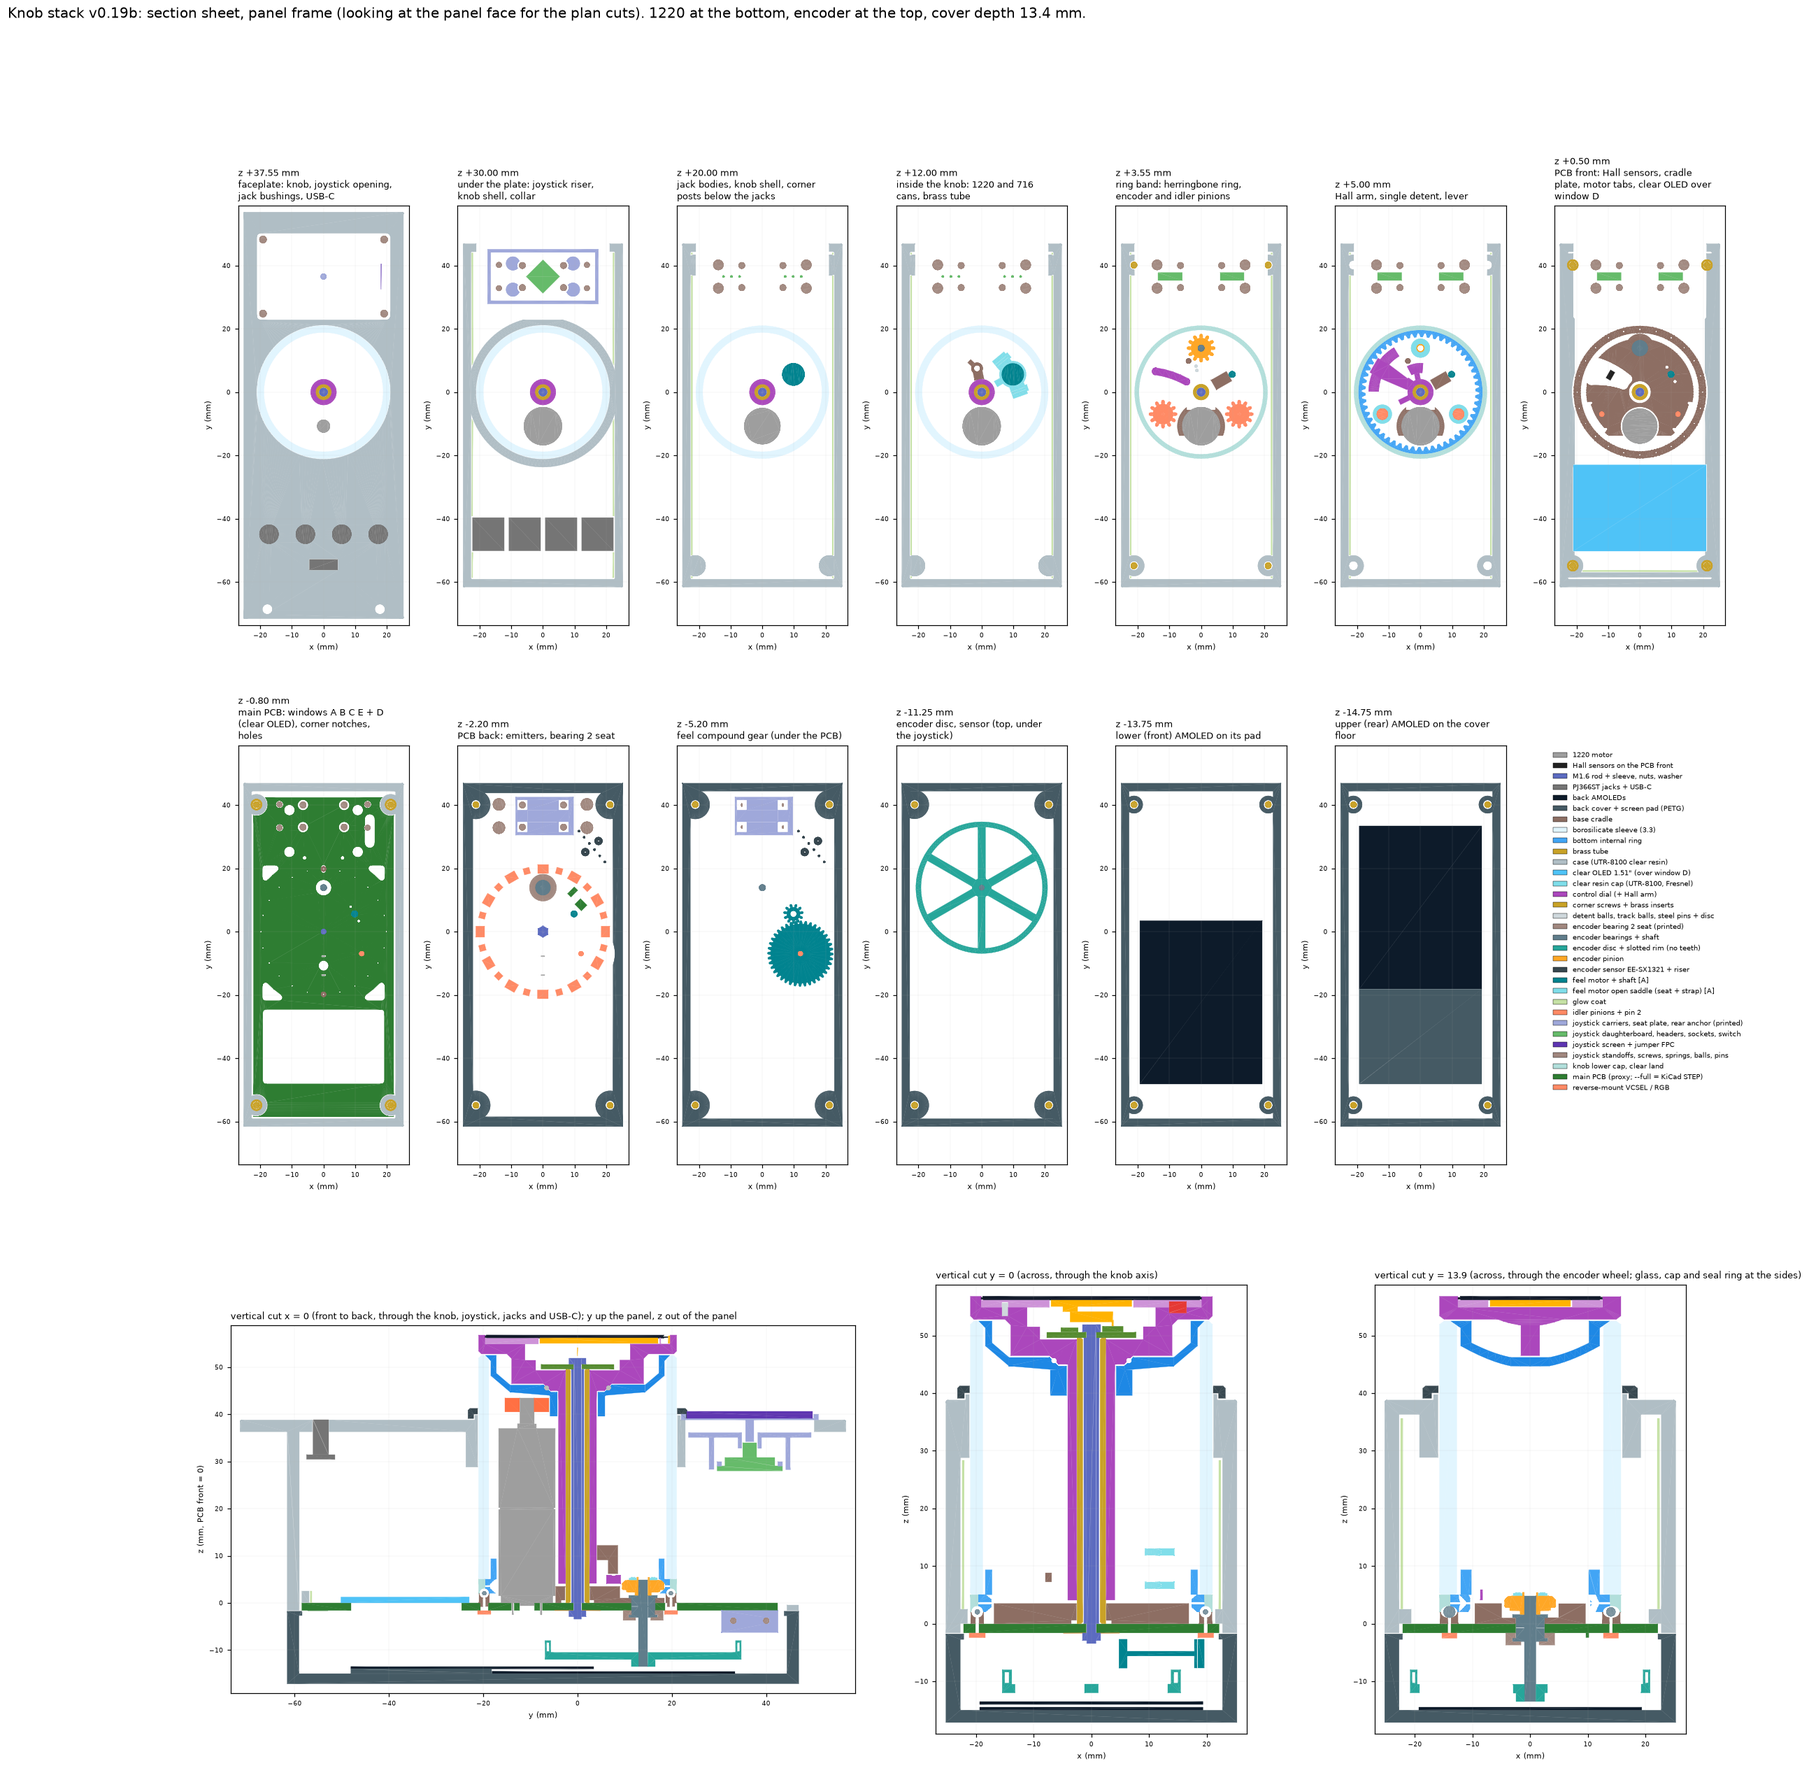
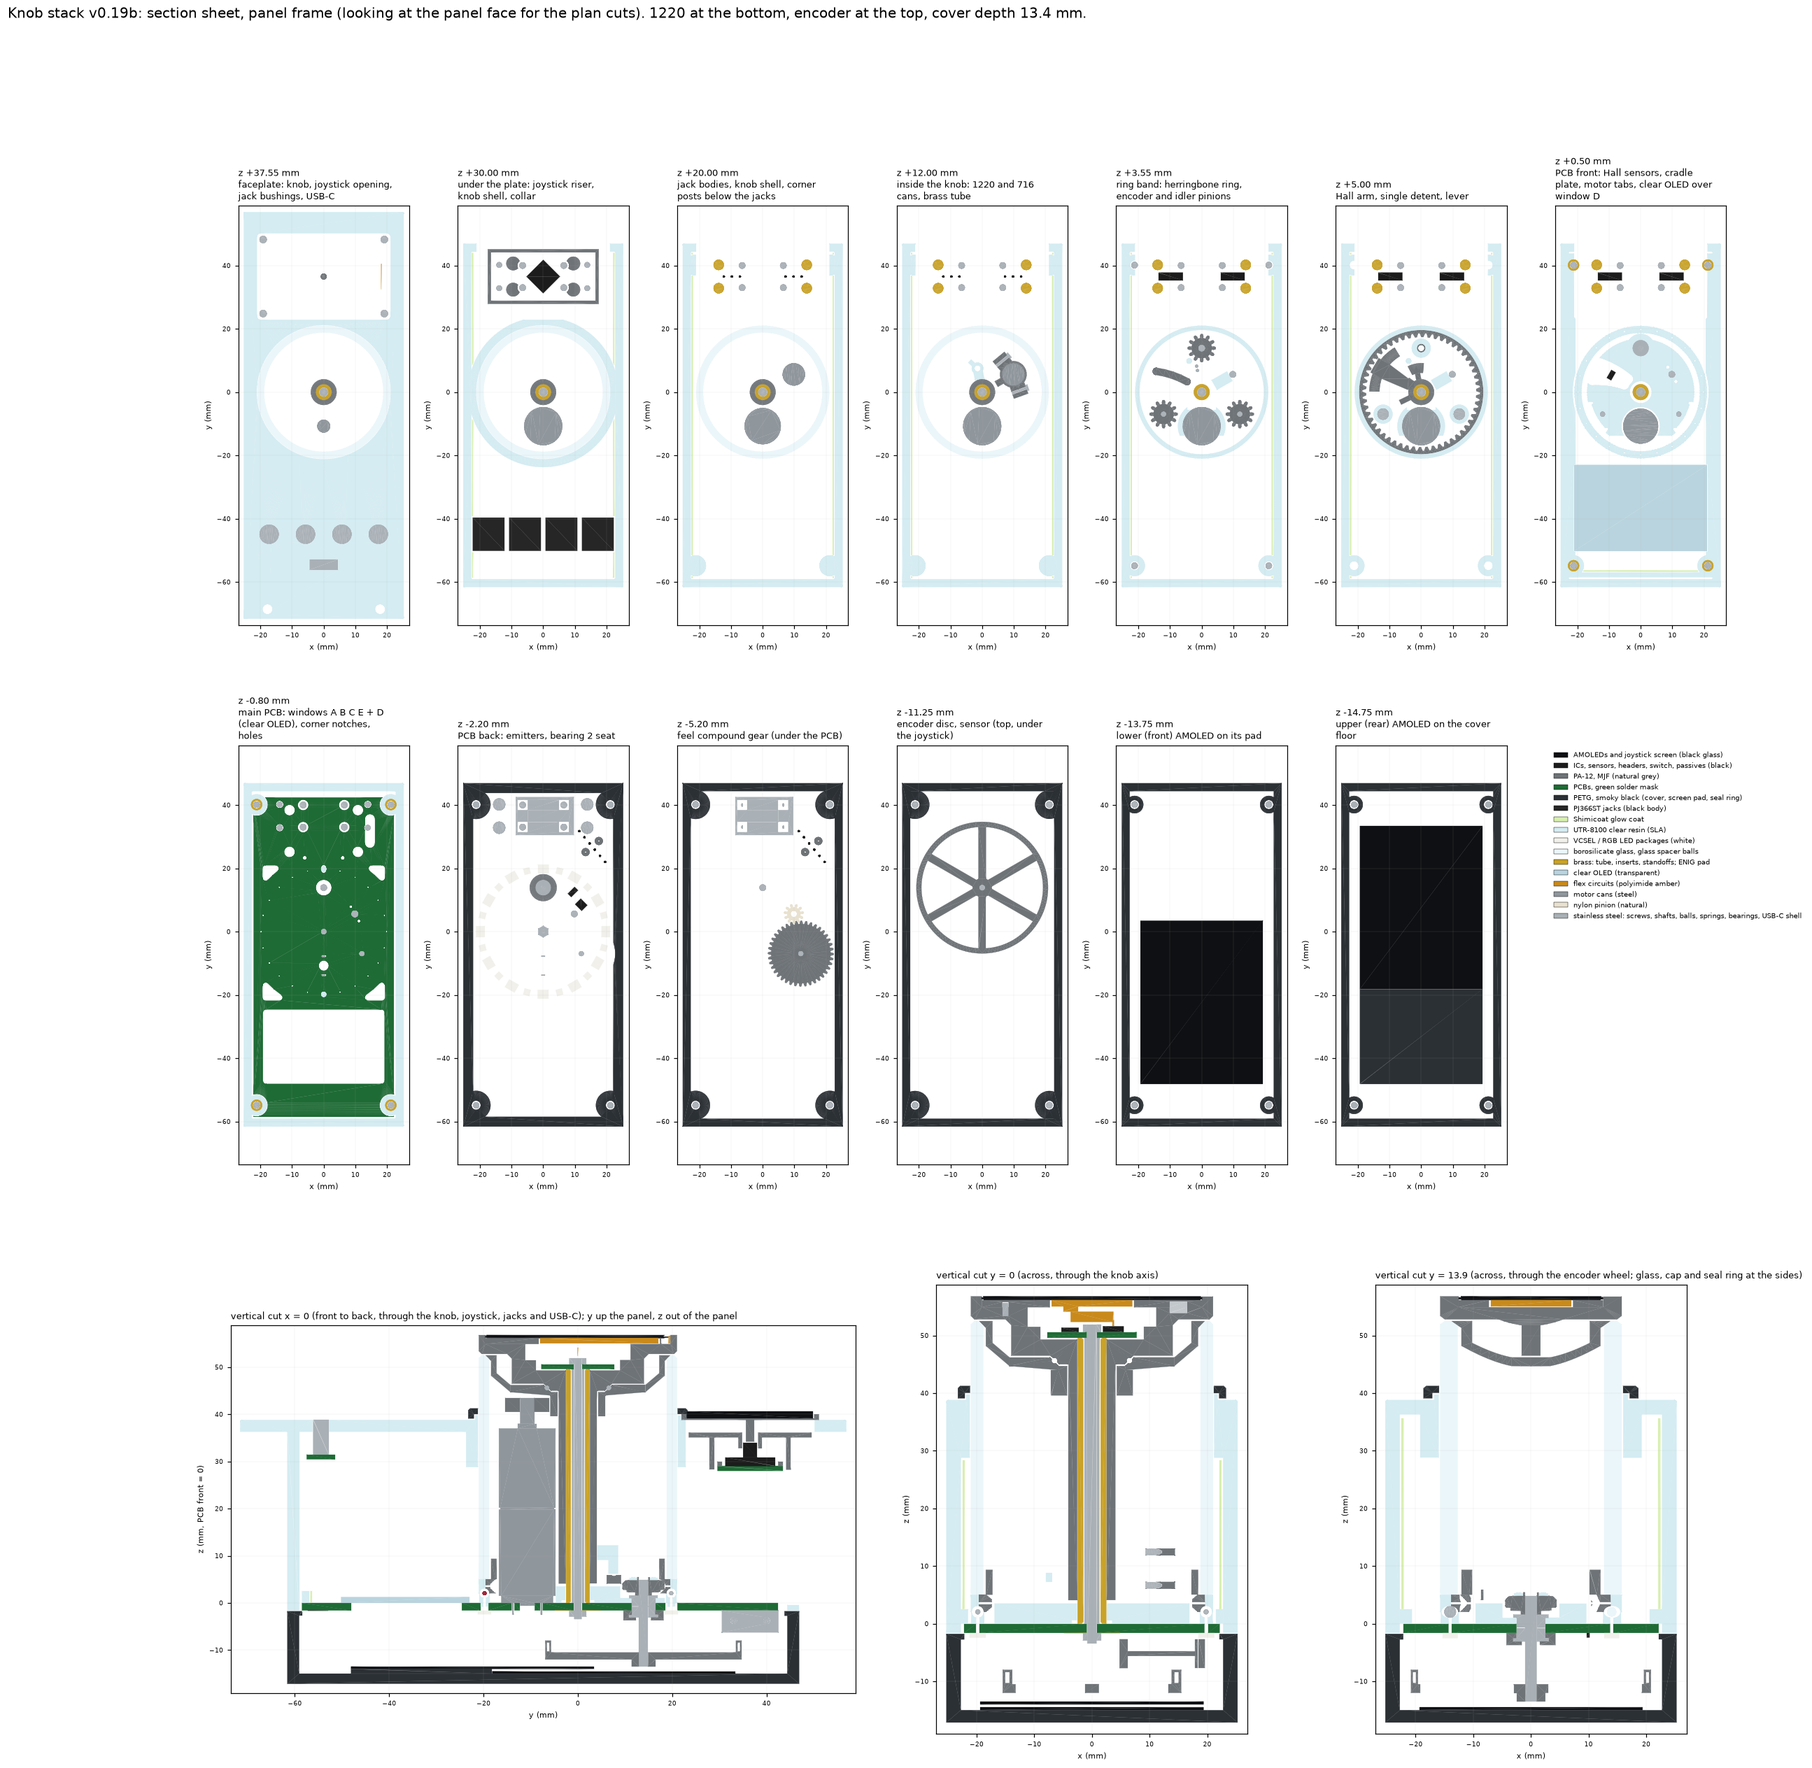
v0.19b: real colours by material (assembly/colours.py) for the renders, section sheet and exported models; BOM rule fixes (upper cap PA-12, base cradle clear resin, seal ring PETG, joystick anchor PA-12, nylon pinion)
Claude-Session: https://claude.ai/code/session_01WWsCMB1ZDabhaLUNCmzi3x

diff --git a/cad/knob-param/knobparam/assembly/colours.py b/cad/knob-param/knobparam/assembly/colours.py
@@ -1,0 +1,97 @@
+"""Real colours, by material (v0.19b, 2 Nov). One table for the renders, the section sheet and the exported models.
+
+The material comes from export_parts.classify (the BOM rules), refined by name where the BOM material is generic
+(a board vs the black parts on it, brass vs steel hardware, glass vs steel balls). Joystick parts carry a "joystick: " prefix.
+"""
+from .export_parts import classify
+
+# key: (legend, colour, see-through)
+MATERIALS = {
+    "clear":   ("UTR-8100 clear resin (SLA)", "#d4ecf2", True),
+    "glass":   ("borosilicate glass, glass spacer balls", "#eaf6fa", True),
+    "oled":    ("clear OLED (transparent)", "#b9d4de", True),
+    "pa12":    ("PA-12, MJF (natural grey)", "#6e7377", False),
+    "petg":    ("PETG, smoky black (cover, screen pad, seal ring)", "#2b3035", False),
+    "nylon":   ("nylon pinion (natural)", "#e8e1cf", False),
+    "steel":   ("stainless steel: screws, shafts, balls, springs, bearings, USB-C shell", "#a9b0b6", False),
+    "brass":   ("brass: tube, inserts, standoffs; ENIG pad", "#c9a227", False),
+    "magnet":  ("N52 magnets, nickel-plated", "#c3c8cd", False),
+    "ruby":    ("synthetic ruby accent balls", "#9b1b30", False),
+    "motor":   ("motor cans (steel)", "#8f969c", False),
+    "pcb":     ("PCBs, green solder mask", "#1e6b35", False),
+    "ic":      ("ICs, sensors, headers, switch, passives (black)", "#1c1c1c", False),
+    "led":     ("VCSEL / RGB LED packages (white)", "#f1f0ea", False),
+    "display": ("AMOLEDs and joystick screen (black glass)", "#0e1013", False),
+    "flex":    ("flex circuits (polyimide amber)", "#c98a1b", False),
+    "jack":    ("PJ366ST jacks (black body)", "#262626", False),
+    "glow":    ("Shimicoat glow coat", "#d7efae", False),
+    "other":   ("unassigned (check the material rules)", "#ff00ff", False),
+}
+
+
+def key(name):
+    n = name[len("joystick: "):] if name.startswith("joystick: ") else name
+    low = n.lower()
+    # name overrides first: places where the BOM material string is generic or the part is a sub-feature
+    if "seal ring" in low: return "petg"
+    if "clear oled" in low: return "oled"
+    if "ruby" in low: return "ruby"
+    if "glass" in low and "ball" in low: return "glass"
+    if "nylon" in low: return "nylon"
+    if "rod pad" in low: return "brass"
+    if "spring" in low: return "steel"                       # 'non-magnetic' springs must not read as magnets
+    if "socket" in low and "fpc" in low: return "ic"           # FPC socket on the joystick board
+    if low.startswith("jack ") and ("bushing" in low or "nut" in low): return "steel"
+    if low.startswith("pcb back parts"): return "ic"
+    if "daughterboard" in low or low == "pcb" or low.startswith("adapter board") or "pd board" in low: return "pcb"
+    if low.startswith(("hall sensor", "encoder sensor", "dial tmag", "adapter part")) or "header" in low or low.startswith(("sw1", "socket 1x3")):
+        return "ic"
+    if low.startswith("emitter "): return "led"
+    if low.startswith(("jack ", "pj366st")) or "bushing" in low: return "jack"
+    if "usb-c" in low: return "steel"
+    if any(k in low for k in ("fpc", "jumper", "b2b")) or "strap" in low and "saddle" not in low: return "flex"
+    if "amoled" in low or "dwo" in low or (low.startswith("screen ") and low.endswith(" panel")): return "display"
+    if "glow coat" in low: return "glow"
+    _, mat, _ = classify(n)
+    m = mat.lower()
+    if "utr-8100" in m: return "clear"
+    if "pa-12" in m: return "pa12"
+    if "petg" in m: return "petg"
+    if "borosilicate" in m: return "glass"
+    if m == "display": return "display"
+    if "fr-4" in m: return "pcb"
+    if "pcba parts" in m or "encoder daughterboard" in m: return "ic"
+    if "vcsel" in m: return "led"
+    if "brass" in m and "steel" not in m: return "brass"
+    if "steel / brass hardware" in m: return "brass" if ("brass" in low or "insert" in low or "standoff" in low) else "steel"
+    if "n52" in m: return "magnet"
+    if "flex" in m: return "flex"
+    if m == "motor": return "motor"
+    if "bearing" in m or "spring" in m or "dowel" in m or "balls" in m: return "steel"
+    if "pj366st" in m: return "jack"
+    if "shimicoat" in m: return "glow"
+    return "other"
+
+
+def colour(name):
+    return MATERIALS[key(name)][1]
+
+
+def legend(name):
+    return MATERIALS[key(name)][0]
+
+
+def see_through(name):
+    return MATERIALS[key(name)][2]
+
+
+def groups():
+    """render.GROUPS-style list: (legend, colour, match), one per material, 'other' last (the fallback)."""
+    out = []
+    for k, (leg, col, _) in MATERIALS.items():
+        if k == "other":
+            continue
+        out.append((leg, col, (lambda kk: (lambda n: key(n) == kk))(k)))
+    leg, col, _ = MATERIALS["other"]
+    out.append((leg, col, lambda n: True))
+    return out

diff --git a/cad/knob-param/knobparam/assembly/render.py b/cad/knob-param/knobparam/assembly/render.py
@@ -6,44 +6,10 @@ import numpy as np
 from build123d import *
 from ..common.cache import CACHE
 
-GROUPS = [  # (legend, colour, match)
-    ("clear resin cap (UTR-8100, Fresnel)", "#80deea", lambda n: n.endswith(" cap")),
-    ("rod VBUS pad, B.Cu (enlarged, no washer)", "#d4883a", lambda n: n.startswith("PCB rod pad")),
-    ("main PCB (proxy; --full = KiCad STEP)", "#2e7d32", lambda n: n.startswith("PCB")),
-    ("1220 motor", "#9e9e9e", lambda n: n == "motor"),
-    ("motor pinion", "#ff7043", lambda n: n == "pinion"),
-    ("brass tube", "#c9a227", lambda n: n == "brass tube"),
-    ("M1.6 rod + sleeve, nuts, washer", "#5c6bc0", lambda n: n.startswith("rod")),
-    ("base cradle", "#8d6e63", lambda n: n == "base cradle"),
-    ("borosilicate sleeve (3.3)", "#e1f5fe", lambda n: n.startswith("knob glass")),
-    ("knob seal ring (PETG, opaque)", "#37474f", lambda n: n.startswith("knob seal ring")),
-    ("clear OLED 1.51\" (over window D)", "#4fc3f7", lambda n: n.startswith("clear OLED")),
-    ("knob upper cap (inside the bore)", "#1e88e5", lambda n: n.startswith("knob upper-cap")),
-    ("knob lower cap, clear land", "#b2dfdb", lambda n: n.startswith("knob lower-cap")),
-    ("bottom internal ring", "#42a5f5", lambda n: n.startswith("bottom internal ring")),
-    ("knob balls (opposed 45° cones)", "#bdbdbd", lambda n: n.startswith("knob balls")),
-    ("control dial (+ Hall arm)", "#ab47bc", lambda n: n == "control dial"),
-    ("magnets (Hall row N/S/N/S/N, carrier pair) N52", "#e53935", lambda n: n.startswith(("dial magnet", "hall magnet", "knob ring magnet", "cushion magnet", "screen carrier magnet"))),
-    ("dial TMAG5273 sensor board (turns with the dial)", "#2f6b2f", lambda n: n.startswith(("dial sensor board", "dial TMAG5273"))),
-    ("detent balls, track balls, steel pins + disc", "#cfd8dc", lambda n: (n.startswith("detent") and " ball" in n) or n.startswith(("track ball", "spring anchor pin", "screen carrier steel", "screen carrier locating"))),
-    ("detent springs, grub screws, centring springs (non-magnetic)", "#fdd835", lambda n: n.startswith(("detent", "centring spring"))),
-    ("Hall sensors on the PCB front", "#212121", lambda n: n.startswith("hall sensor")),
-    ("reverse-mount VCSEL / RGB", "#ff8a65", lambda n: n.startswith("emitter ")),
-    ("thrust carrier + balls", "#78909c", lambda n: n.startswith("thrust") or n.startswith("outer thrust")),
-    ("encoder bearings + shaft", "#607d8b", lambda n: n.startswith(("encoder bearing", "encoder shaft"))),
-    ("encoder pinion", "#ffa726", lambda n: n == "encoder pinion"),
-    ("encoder disc + slotted rim (no teeth)", "#26a69a", lambda n: n.startswith("encoder disc")),
-    ("encoder sensor EE-SX1321 + riser", "#37474f", lambda n: n.startswith(("encoder sensor", "encoder daughter", "encoder header", "encoder standoff"))),
-    ("idler pinions + pin 2", "#ff8a65", lambda n: n.startswith("idler")),
-    ("feel motor + shaft [A]", "#00838f", lambda n: (n.startswith("feel motor") or n.startswith("feel compound") or n.startswith("feel pinion")) and "saddle" not in n),
-    ("feel motor open saddle (seat + strap) [A]", "#80deea", lambda n: n.startswith("feel motor saddle")),
-    ("screen holder (fixed, plate under the panel)", "#6d4c41", lambda n: n == "screen holder"),
-    ("adapter cup (fixed, on the tube)", "#6d4c41", lambda n: n == "adapter cup (fixed)"),
-    ("screen carrier (bonded on the dial, turns with it)", "#ce93d8", lambda n: n == "screen carrier (on dial)"),
-    ("screen panel", "#101828", lambda n: n.startswith("screen ") and n.endswith(" panel")),
-    ("screen FPC fold + B2B + service strap / jumper [A]", "#ffb300", lambda n: n.startswith("screen ") and ("FPC" in n)),
-    ("screen adapter board + parts", "#558b2f", lambda n: n.startswith("adapter")),
-]
+# v0.19b [Ed 2 Nov]: real colours by material (assembly/colours.py), one group per material; 'unassigned' (magenta) is last.
+# The v0.19 function palette (one colour per part family) is gone; the legend now reads as a material key.
+from .colours import groups as _material_groups
+GROUPS = _material_groups()
 def group_of(n):
     for i, (_, c, f) in enumerate(GROUPS):
         if f(n): return i

diff --git a/cad/knob-param/knobparam/assembly/plan_sheet.py b/cad/knob-param/knobparam/assembly/plan_sheet.py
@@ -10,33 +10,15 @@ import matplotlib.pyplot as plt
 from matplotlib.collections import PolyCollection
 from matplotlib.patches import Patch
 
-_J = "joystick: "
-CASE_COLS = [  # (legend, colour, match) for parts the main render palette does not know
-    ("joystick screen + jumper FPC", "#5e35b1", lambda n: n.startswith(_J) and ("screen DWO" in n or "FPC" in n)),
-    ("joystick carriers, seat plate, rear anchor (printed)", "#9fa8da", lambda n: n.startswith(_J) and any(k in n for k in ("carrier", "seat plate", "anchor"))),
-    ("joystick daughterboard, headers, sockets, switch", "#66bb6a", lambda n: n.startswith(_J) and any(k in n for k in ("daughterboard", "header", "socket 1x3", "SW1"))),
-    ("joystick standoffs, screws, springs, balls, pins", "#a1887f", lambda n: n.startswith(_J)),
-    ("knob seal ring (PETG, opaque)", "#37474f", lambda n: n.startswith("knob seal ring")),
-    ("clear OLED 1.51\" (over window D)", "#4fc3f7", lambda n: n.startswith("clear OLED")),
-    ("case (UTR-8100 clear resin)", "#b0bec5", lambda n: n == "case"),
-    ("back cover + screen pad (PETG)", "#455a64", lambda n: n.startswith(("back cover", "lower screen pad"))),
-    ("glow coat", "#c5e1a5", lambda n: n.startswith("glow coat")),
-    ("back AMOLEDs", "#0d1b2a", lambda n: n.startswith("back AMOLED")),
-    ("PJ366ST jacks + USB-C", "#757575", lambda n: n.startswith(("jack ", "USB-C"))),
-    ("corner screws + brass inserts", "#c9a227", lambda n: n.startswith(("corner screw", "corner insert"))),
-    ("encoder bearing 2 seat (printed)", "#a1887f", lambda n: n.startswith("encoder bearing 2 seat")),
-]
-
-
 def colour(n):
-    for leg, c, f in CASE_COLS:
-        if f(n):
-            return leg, c
-    from .render import GROUPS
-    for leg, c, f in GROUPS:
-        if f(n):
-            return leg, c
-    return "other", "#bdbdbd"
+    """v0.19b: real colour by material (assembly/colours.py)."""
+    from .colours import colour as _c, legend as _l
+    return _l(n), _c(n)
+
+
+def _edge(hexc, k=0.55):
+    h = hexc.lstrip("#"); r, g, b = (int(h[i:i + 2], 16) for i in (0, 2, 4))
+    return "#%02x%02x%02x" % tuple(int(v * k) for v in (r, g, b))
 
 
 def _cut_faces(solid, axis, at, eps=0.002):
@@ -103,7 +85,7 @@ def cut(parts, axis, at):
 def draw(ax, layer, title, xlim, ylim, xlabel="x (mm)", ylabel="y (mm)"):
     used = {}
     for n, leg, c, tris in layer:
-        ax.add_collection(PolyCollection(tris, facecolors=c, edgecolors=c, linewidths=0.2))
+        ax.add_collection(PolyCollection(tris, facecolors=c, edgecolors=c, linewidths=0.15))
         used.setdefault(leg, c)
     ax.set_xlim(*xlim); ax.set_ylim(*ylim); ax.set_aspect("equal")
     ax.set_title(title, fontsize=8.5, loc="left")

diff --git a/cad/knob-param/knobparam/assembly/export_parts.py b/cad/knob-param/knobparam/assembly/export_parts.py
@@ -12,6 +12,11 @@ RULES = [
     (r"locating pin|dowel", "buy", "steel dowel", "buy"),
     (r"saddle strap|saddle seat|screen carrier|holder", "print", "PA-12", "MJF"),
     (r"FPC|jumper|B2B", "buy", "flex / connector", "buy"),
+    (r"seal ring", "print", "PETG, opaque", "FDM"),   # v0.19b: before the glass rule (the name says 'bonded on the glass')
+    (r"knob upper-cap", "print", "PA-12", "MJF"),     # v0.19b: carries the 1220 hub gear; was caught by the clear 'cap' rule
+    (r"base cradle", "print", "UTR-8100 clear resin (clear race fused in)", "SLA"),   # the race land is the light path
+    (r"nylon", "buy", "nylon pinion (Tempero 0.5M-12T)", "buy"),
+    (r"anchor", "print", "PA-12", "MJF"),             # joystick rear spring anchor (printed), not a spring
     (r"ball|ruby", "buy", "steel / glass / ruby balls", "buy"),
     (r"^PCB$|^PCB back parts|^PCB rod pad", "board", "FR-4 main PCB (KiCad)", "PCBWay PCBA"),
     (r"^emitter ", "buy", "VCSEL / RGB LED (LCSC)", "on the PCBA"),
@@ -34,7 +39,6 @@ RULES = [
     (r"rod|nut|screw|grub|insert|pin\b|pins\b|dowel|shaft", "buy", "steel / brass hardware", "buy"),
     (r"ball|ruby", "buy", "steel / glass / ruby balls", "buy"),
     (r"thrust blank", "print", "UTR-8100 clear resin", "SLA"),
-    (r"seal ring", "print", "PETG, opaque", "FDM"),
     (r"clear OLED", "buy", "EastRising ER-OLED1.51-1B (SSD1309, transparent)", "-"),
     (r"spring", "buy", "stainless 316 / phosphor bronze spring", "buy"),
     (r"magnet|cushion", "buy", "N52 magnet", "buy"),

diff --git a/cad/knob-param/knobparam/assembly/export.py b/cad/knob-param/knobparam/assembly/export.py
@@ -13,6 +13,8 @@ OPACITY = 0.35
 
 
 def _colour(name):
+    from .colours import colour as _c   # v0.19b: real colours by material
+    return _c(name)
     from .render import GROUPS
     for _, hexc, match in GROUPS:
         if match(name):
@@ -51,7 +53,7 @@ def step(parts, path):
         c = s
         try:
             c.label = n
-            c.color = Color(*_rgb(_colour(n)), OPACITY if any(k in n for k in CLEAR) else 1.0)
+            c.color = Color(*_rgb(_colour(n)), OPACITY if __import__('knobparam.assembly.colours', fromlist=['see_through']).see_through(n) else 1.0)
         except Exception:
             pass
         kids.append(c)
@@ -92,7 +94,7 @@ def usdz(parts, keys, path, tol=0.08, ang=0.4):
         lo, hi = Vy.min(0), Vy.max(0)
         m.CreateExtentAttr([Gf.Vec3f(*map(float, lo)), Gf.Vec3f(*map(float, hi))])
         hexc = _colour(n)
-        clear = any(k in n for k in CLEAR)
+        clear = __import__('knobparam.assembly.colours', fromlist=['see_through']).see_through(n)
         mk = (hexc, clear)
         if mk not in mats:
             mp = f"/knob/Looks/m{len(mats)}"
